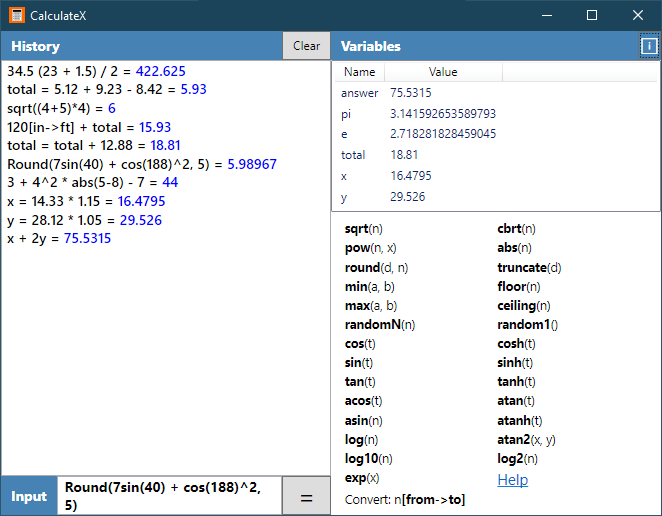
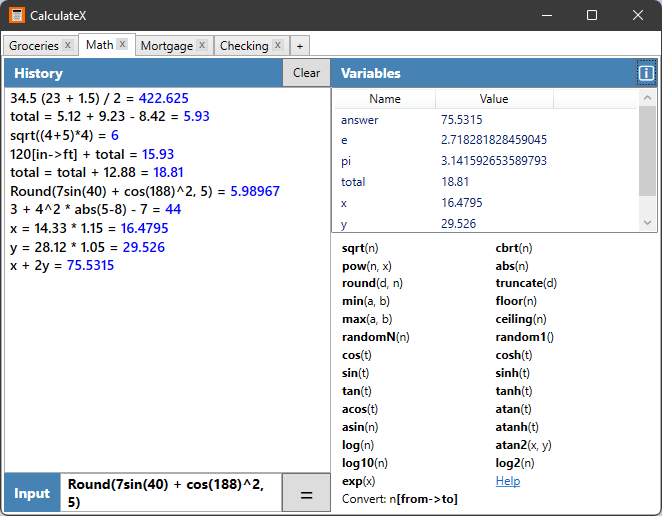
Published 3.7.25. #minor

Changed region(s): [[0.0, 0.0, 1.0, 1.0]]

diff --git a/readme.md b/readme.md
@@ -23,6 +23,7 @@ A calculator that evaluates math expressions.
     - Mass
     - Volume
 - Supports variables including last answer.
+- Supports multiple workspaces with their own history and variables.
 
 Enter simple or complex mathematical expressions and immediately calculate the result.
 From adding your grocery bill to calculating cosine, *CalculateX* does it all.
@@ -42,6 +43,28 @@ If you use the mouse to select text in the history, it is automatically copied t
 The focus is also set on the input field so that you can quickly paste the selected text if desired.
 When pasting a number, any currency symbol and grouping separators are removed
 since they are not allowed in expressions.
+
+### Workspaces
+
+You can use workspaces to separate different calculation tasks.
+Use one for working on your taxes, another for adding your utility bills,
+and another for measuring the wood to build those bookcases.
+
+Each workspace has its own input history and variables.
+
+Double-click a tab to edit its name.
+
+Click the "x" in a tab to close that workspace.
+
+Click the "+" tab to create a new workspace.
+
+| Key | Action |
+|-----|--------|
+| Ctrl+T | Create new workspace |
+| Ctrl+W | Close current workspace |
+| Ctrl+F4 | Close current workspace |
+| Ctrl+PageUp | Select previous workspace |
+| Ctrl+PageDown | Select next workspace |
 
 ### Basic Mathematical Operators
 
